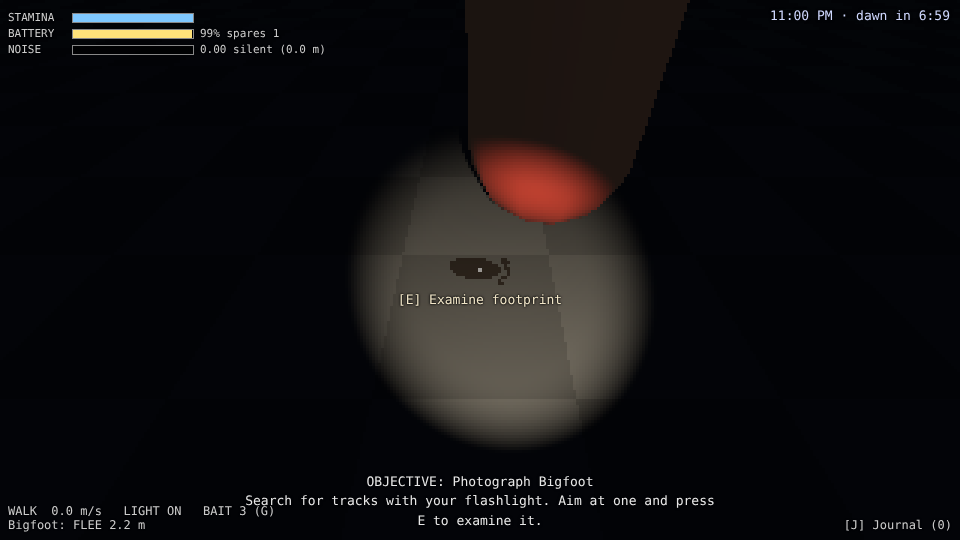
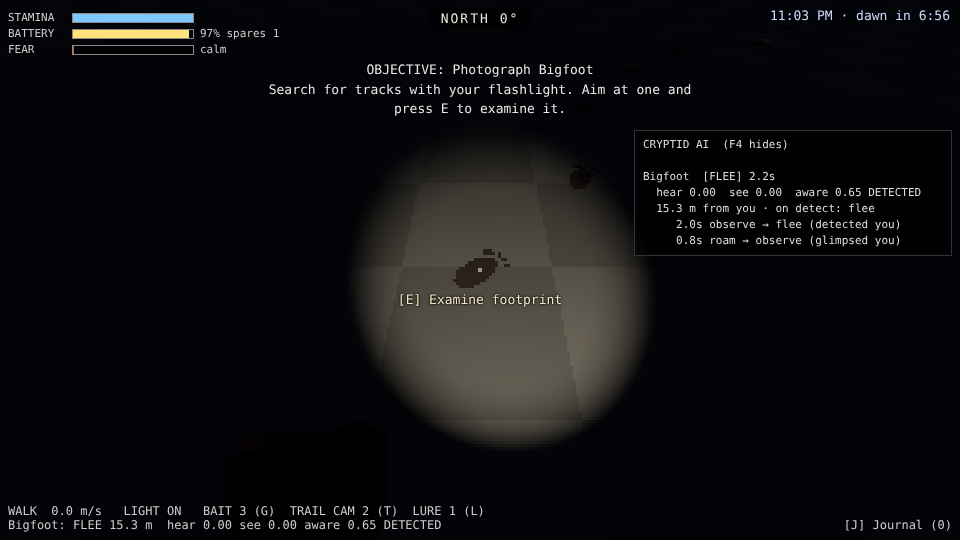
Director answers: #14 choose to leave, #18 noise readout debug-only, #22 Bigfoot can turn on you (#29)
* Director answers: choose when to leave (#14), noise readout debug-only (#18), Bigfoot can turn on you (#22)

- #14: reaching the van with a photo no longer auto-ends the hunt; H drives
  home (complete with best photo), or keep hunting for a better shot.
- #18: the NOISE HUD bar is hidden in play; N shows it with the noise ring.
- #22: Bigfoot charges if it only notices you within 4 m (cornered) or after
  being chased off 3 times this hunt (behavior.turnWithin / turnAfterFlees).
- check-t6 height tolerance for #24's model; checks t14/t22/t48 updated.
- #17: battery stays medium (2 min), noted in the report.

Claude-Session: https://claude.ai/code/session_014LNbET5mb9p8VAZ6PXMuyt

* Director answers: PR links in reports

Claude-Session: https://claude.ai/code/session_014LNbET5mb9p8VAZ6PXMuyt

---------

diff --git a/src/hunt/huntLoop.js b/src/hunt/huntLoop.js
@@ -26,7 +26,12 @@ export class HuntLoop {
     this.buildHud();
     this.buildEndScreen();
     addEventListener('keydown', (e) => {
-      if (e.code === 'KeyH' && !e.repeat && this.canGiveUp()) this.end('abandoned');
+      // H at the van: drive home. With a photo that completes the hunt; without one (after a
+      // little while) it abandons it. You choose when to leave - you can keep hunting for a better shot.
+      if (e.code === 'KeyH' && !e.repeat) {
+        if (this.canLeaveWithPhoto()) this.end('complete');
+        else if (this.canGiveUp()) this.end('abandoned');
+      }
       if ((e.code === 'Space' || e.code === 'Enter') && this.stage === 'ended' && this.outcome !== 'caught') this.restart();
     });
   }
@@ -39,6 +44,8 @@ export class HuntLoop {
   get timeLeft() { return Math.max(0, HUNT.dawnSeconds - this.elapsed); }
 
   canGiveUp() { return this.stage === 'search' && this.inZone && this.elapsed >= HUNT.giveUpAfter; }
+
+  canLeaveWithPhoto() { return this.stage === 'extract' && this.inZone; }
 
   // Hook for the camera: called with { subject, distance } for every shot taken.
   // Hook for every camera (handheld or gear): { subject, distance, score?, source? }.
@@ -58,8 +65,7 @@ export class HuntLoop {
     this.inZone = Math.hypot(p.x - HUNT.exit.x, p.z - HUNT.exit.z) < HUNT.extractRadius;
     if (this.stage === 'search' || this.stage === 'extract') {
       this.elapsed += dt;
-      if (this.stage === 'extract' && this.inZone) this.end('complete');
-      else if (this.elapsed >= HUNT.dawnSeconds) this.end('dawn');
+      if (this.elapsed >= HUNT.dawnSeconds) this.end('dawn');
     }
     this.renderHud();
   }
@@ -163,8 +169,12 @@ export class HuntLoop {
         if (this.canGiveUp()) lines.push('[H] Head home without a photo');
         return lines.join('\n');
       }
-      case 'extract':
-        return `GOT THE SHOT! Return to the van (green light) before dawn — ${dVan.toFixed(0)} m`;
+      case 'extract': {
+        const best = this.photo ? ` (best: score ${this.photo.score})` : '';
+        return this.inZone
+          ? `At the van with your photo${best}.\n[H] Drive home and end the hunt — or keep hunting for a better shot.`
+          : `GOT THE SHOT${best}! Return to the van (green light) before dawn — ${dVan.toFixed(0)} m\nThen press H there to drive home.`;
+      }
       case 'ended': return '';
     }
     return '';

diff --git a/src/hud.js b/src/hud.js
@@ -1,4 +1,5 @@
-// Plain HUD bars for stamina, flashlight battery and (debug) player noise, top-left.
+// Plain HUD bars for stamina, flashlight battery and fear, top-left. The player-noise bar is a
+// debug aid only (shown with N, together with the noise ring).
 export class Hud {
   constructor(player, flashlight, fear = null) {
     this.player = player;
@@ -11,6 +12,7 @@ export class Hud {
     this.stamina = this.bar(root, 'STAMINA', '#7fc8ff');
     this.battery = this.bar(root, 'BATTERY', '#ffe27a');
     this.noise = this.bar(root, 'NOISE', '#c9a0ff');   // debug readout of what cryptids can hear
+    this.showNoise = false;
     if (fear) this.fearBar = this.bar(root, 'FEAR', '#e0604a');
     // Fear vignette: the screen edges darken and redden as fear climbs.
     this.vignette = document.createElement('div');
@@ -32,7 +34,7 @@ export class Hud {
     const note = document.createElement('span');
     row.append(name, track, note);
     root.appendChild(row);
-    return { fill, note, color };
+    return { row, fill, note, color };
   }
 
   update() {
@@ -42,6 +44,7 @@ export class Hud {
     this.stamina.note.textContent = p.exhausted ? 'winded' : '';
     this.battery.fill.style.width = `${(f.battery * 100).toFixed(1)}%`;
     this.battery.fill.style.background = f.battery < 0.15 ? '#c0504d' : this.battery.color;
+    this.noise.row.style.display = this.showNoise ? 'flex' : 'none';
     const n = p.noise;
     const label = n < 0.02 ? 'silent' : n < 0.25 ? 'quiet' : n < 0.7 ? 'medium' : 'loud';
     this.noise.fill.style.width = `${(n * 100).toFixed(1)}%`;

diff --git a/src/cryptids/profiles.js b/src/cryptids/profiles.js
@@ -36,6 +36,9 @@ export const DEFAULT_PROFILE = Object.freeze({
     aggressTime: 8,          // seconds it keeps coming before giving up
     aggressGiveUp: 25,       // ...or once you're this far away
     afterAggress: 'roam',    // then: 'roam' | 'flee'
+    // A cryptid that normally flees can still turn on you:
+    turnWithin: 0,           // ...if it only notices you this close (metres, cornered / surprised); 0 = never
+    turnAfterFlees: 0,       // ...or once you've chased it off this many times this hunt; 0 = never
   }),
 });
 
@@ -60,7 +63,9 @@ export const BIGFOOT = makeProfile({
   senses: Object.freeze({ hearing: 1.4, sightRange: 32, viewAngle: 65 }), // keen ears and eyes (see perception.js)
   // Shy but curious: checks out noises, stops and stares when it glimpses you (the classic
   // sighting, and your photo chance), then bolts once it's sure.
-  behavior: { onDetect: 'flee', observeAt: 0.3, observeTime: 3.5, lookAround: 5 },
+  // It's not harmless: surprise it up close, or keep hounding it, and it turns and charges.
+  behavior: { onDetect: 'flee', observeAt: 0.3, observeTime: 3.5, lookAround: 5,
+    turnWithin: 4, turnAfterFlees: 3, aggressSpeed: 5.6, aggressTime: 5, aggressGiveUp: 20, afterAggress: 'flee' },
   fleeSafeDistance: 30,
   fleeSpeed: 8.5,          // faster than the player's sprint (6 m/s): you can't run it down
   fleeStep: 18,

diff --git a/src/cryptids/cryptidAI.js b/src/cryptids/cryptidAI.js
@@ -46,6 +46,7 @@ export class CryptidAI {
     this.target = null;      // noise spot being investigated
     this.lookLeft = 0;
     this.observeCooldown = 0;
+    this.flees = 0;          // times it has run from the player this hunt (some cryptids snap)
     this.pauseLeft = 0;
     this.replanTimer = 0;
     this.playerDistance = Infinity;
@@ -90,7 +91,9 @@ export class CryptidAI {
     // Detection overrides everything calm.
     if (calm && this.noticesPlayer()) {
       if (B.onDetect === 'aggress') this.enterAggress('detected you');
-      else this.enterFlee(p, 'detected you');
+      else if (B.turnWithin > 0 && this.playerDistance <= B.turnWithin) this.enterAggress('cornered');
+      else if (B.turnAfterFlees > 0 && this.flees >= B.turnAfterFlees) this.enterAggress('fed up with you');
+      else { this.flees++; this.enterFlee(p, 'detected you'); }
       return;
     }
     // Glimpsed you (not sure yet): stop and stare.

diff --git a/index.html b/index.html
@@ -27,7 +27,7 @@
       Follow the trail · when you see it, <b>click</b> to take a photo · it spooks if you get close<br /><br />
       WASD move · Mouse look · Shift sprint · Ctrl / C crouch<br />
       F flashlight · Right mouse raise camera, left click snap · R swap battery · G drop bait · T trail camera · L audio lure · K knock on a tree · J journal · Esc pause<br />
-      <small>Debug: N noise ring · F3 cryptid path · ?map=swamp · ?sandbox</small><br /><br />
+      <small>Debug: N noise readout · F3 cryptid path · ?map=swamp · ?sandbox</small><br /><br />
       <b>Click to start</b>
     </div>
   </div>

diff --git a/src/main.js b/src/main.js
@@ -230,6 +230,7 @@ function frame() {
     cryptids.cryptids.map((c) => `\n${c.profile.name}: ${c.state.toUpperCase()} ${c.playerDistance.toFixed(1)} m` +
       (c.perception ? `  hear ${c.perception.hearLevel.toFixed(2)} see ${Math.max(c.perception.sightLevel, c.perception.beamLevel).toFixed(2)} aware ${c.perception.awareness.toFixed(2)}${c.perception.detected ? ' DETECTED' : ''}` : '')).join('') +
     (clueTrails.debug ? `\nDEBUG PATH ON (F3)  clues: ${clues.clues.length}` : '');
+  bars.showNoise = noiseRing.enabled;   // the noise readout is a debug aid (N)
   bars.update();
   noiseRing.update();
   clueFinder.update();

diff --git a/src/noiseRing.js b/src/noiseRing.js
@@ -1,6 +1,7 @@
 import * as THREE from 'three';
 
-// Debug: a ring on the ground showing how far the player's noise carries. Toggle with N.
+// Debug: a ring on the ground showing how far the player's noise carries, plus the HUD noise bar.
+// Toggle with N.
 export class NoiseRing {
   constructor(scene, player) {
     this.player = player;

diff --git a/.ballast/reports/t22.md b/.ballast/reports/t22.md
@@ -6,6 +6,7 @@ STATUS: DONE
 - To see it: `npm run dev`, play, make a short sprint near Bigfoot, then stand still in the dark and watch the overlay. Screenshots in `.ballast/media/t22/` (investigate, observe, flee, aggress).
 - Assumptions: Bigfoot never attacks for now (the hunt stays a photo hunt); the Chupacabra and Mothman keep their own separate placeholder behaviour, and moving them onto this shared brain is future work. All timings are first guesses.
 - PR: https://github.com/nsmith-gd/cryptidhunter/pull/20
+- Follow-up (director: "Bigfoot can turn on the player"): Bigfoot still usually flees, but if it only notices you within about 4 m (you surprised or cornered it), or you've already chased it off three times this hunt, it turns and charges for a few seconds, faster than you can walk. One grab ends the hunt. PR: https://github.com/nsmith-gd/cryptidhunter/pull/29
 
 ## Questions
 ### Should Bigfoot ever turn on the player, or always run away?

diff --git a/.ballast/reports/t14.md b/.ballast/reports/t14.md
@@ -7,6 +7,7 @@ STATUS: DONE
 - To see it: `npm run dev`, open the page and play. Screenshots of each step and ending are in `.ballast/media/t14/`.
 - Assumptions: the 5-minute target is an estimate (about 35 m to Bigfoot, a few clues, a distance shot, walk back), not timed with an outside player. The photo click is a stand-in until the real camera (#4) lands and plugs into the same "photo taken" hook. It's in the greybox test map until the forest map exists. No money or evidence saving yet.
 - PR: https://github.com/nsmith-gd/cryptidhunter/pull/15
+- Follow-up (director: "choose to leave"): reaching the van with a photo no longer ends the hunt by itself. The objective says "[H] Drive home and end the hunt, or keep hunting for a better shot", and H ends it with your best photo. PR: https://github.com/nsmith-gd/cryptidhunter/pull/29
 
 ## Questions
 ### How long should a night last before dawn ends the hunt?

diff --git a/.ballast/reports/t18.md b/.ballast/reports/t18.md
@@ -5,6 +5,7 @@ STATUS: DONE
 - To see it: `npm run dev`, click to play, then stand, crouch-walk, walk and sprint while watching the bar (press N for the ring). Screenshots in `.ballast/media/t18/`.
 - Assumptions: no cryptid reacts to noise yet (the AI hooks up to it later); the flashlight and battery swaps are silent; the earshot distances are first guesses.
 - PR: https://github.com/nsmith-gd/cryptidhunter/pull/9
+- Follow-up (director: "as a debug aid"): the noise bar is hidden in normal play and shows only with N, together with the noise ring. Players still make more noise crouch-walking < walking < running, and cryptids hear it. PR: https://github.com/nsmith-gd/cryptidhunter/pull/29
 
 ## Questions
 ### Should the noise readout stay visible during normal play, or only as a debug aid?

diff --git a/.ballast/reports/t17.md b/.ballast/reports/t17.md
@@ -6,6 +6,7 @@ STATUS: DONE
 - To see it: `npm run dev`, click to play, hold Shift+W until winded; leave the light on (or wait) to see the battery fall. Screenshots in `.ballast/media/t17/`.
 - Assumptions: swapping is manual with R (not automatic); the battery length and stamina times are first guesses for testing.
 - PR: https://github.com/nsmith-gd/cryptidhunter/pull/8
+- Follow-up (director: "medium"): the battery stays at about 2 minutes, which is the medium option. No change needed.
 
 ## Questions
 ### How long should one flashlight battery last?
